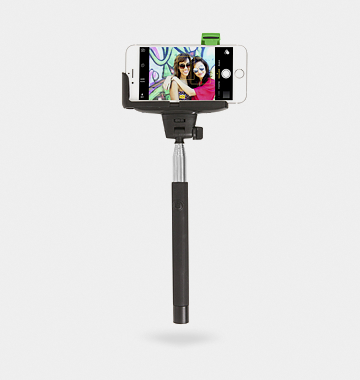
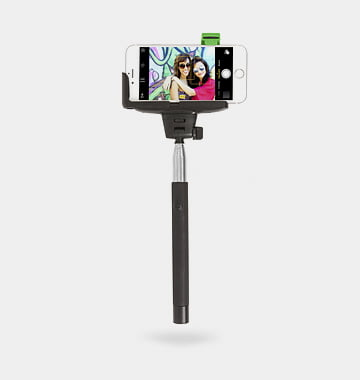
Добавляет графические файлы JPG/PNG с оптимизацией
Произведена замена карты и логотипов производителей на PNG.
Добавлены цветные варианты логотипов производителей в PNG.
Добавлена большая карта в PNG. Все PNG сжаты в tinypng.com.
Все JPG заново экспортированы из PS без сжатия, сжаты (85%) в
squoosh.app.

Changed region(s): [[0.3972, 0.0868, 0.6417, 0.2605]]

diff --git a/index.html b/index.html
@@ -194,10 +194,10 @@
   <section>
     <h2>Логотипы производителей товаров</h2>
     <ul>
-      <li><a href="#"><img src="img/logo-1.jpg" width="260" height="100" alt="Логотип DJI"></a></li>
-      <li><a href="#"><img src="img/logo-2.jpg" width="260" height="100" alt="Логотип SP Gadgets"></a></li>
-      <li><a href="#"><img src="img/logo-3.jpg" width="260" height="100" alt="Логотип GoPro"></a></li>
-      <li><a href="#"><img src="img/logo-4.jpg" width="260" height="100" alt="Логотип VIVI"></a></li>
+      <li><a href="#"><img src="img/logo-1.png" width="260" height="100" alt="Логотип DJI"></a></li>
+      <li><a href="#"><img src="img/logo-2.png" width="260" height="100" alt="Логотип SP Gadgets"></a></li>
+      <li><a href="#"><img src="img/logo-3.png" width="260" height="100" alt="Логотип GoPro"></a></li>
+      <li><a href="#"><img src="img/logo-4.png" width="260" height="100" alt="Логотип VIVI"></a></li>
     </ul>
   </section>
 
@@ -219,7 +219,7 @@
     <p>Вы можете забрать товар сами, заехав в наш офис. Заодно, вы сможете проверить работоспособность покупки. Всякое
       бывает.</p>
     <a href="#">
-      <img src="img/map.jpg" width="560" height="222" alt="Интерьер">
+      <img src="img/map.png" width="560" height="222" alt="Интерьер">
     </a>
     <a href="#">Напишите нам</a>
   </section>
